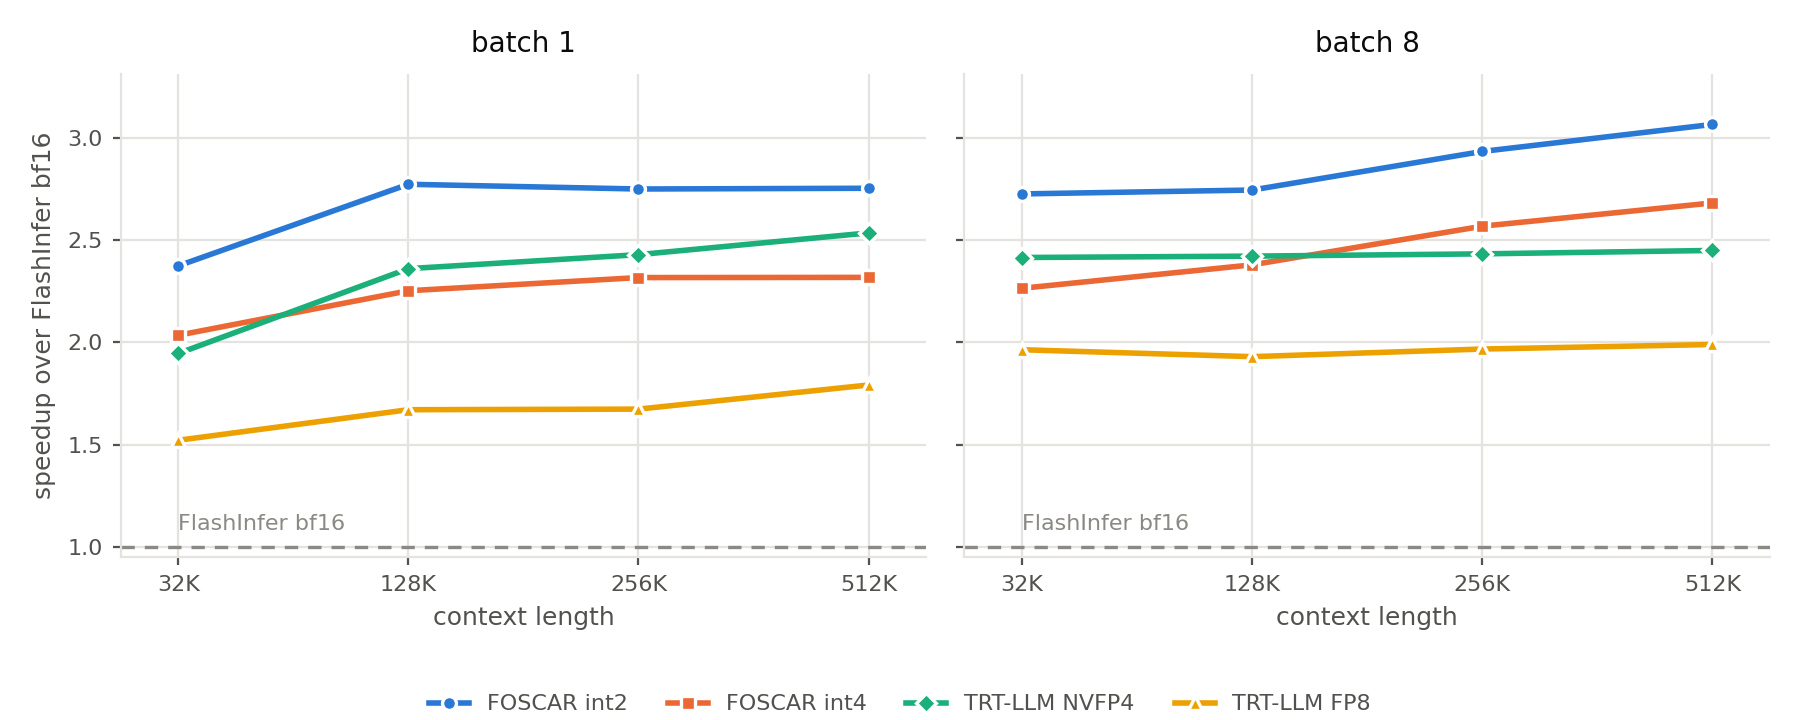
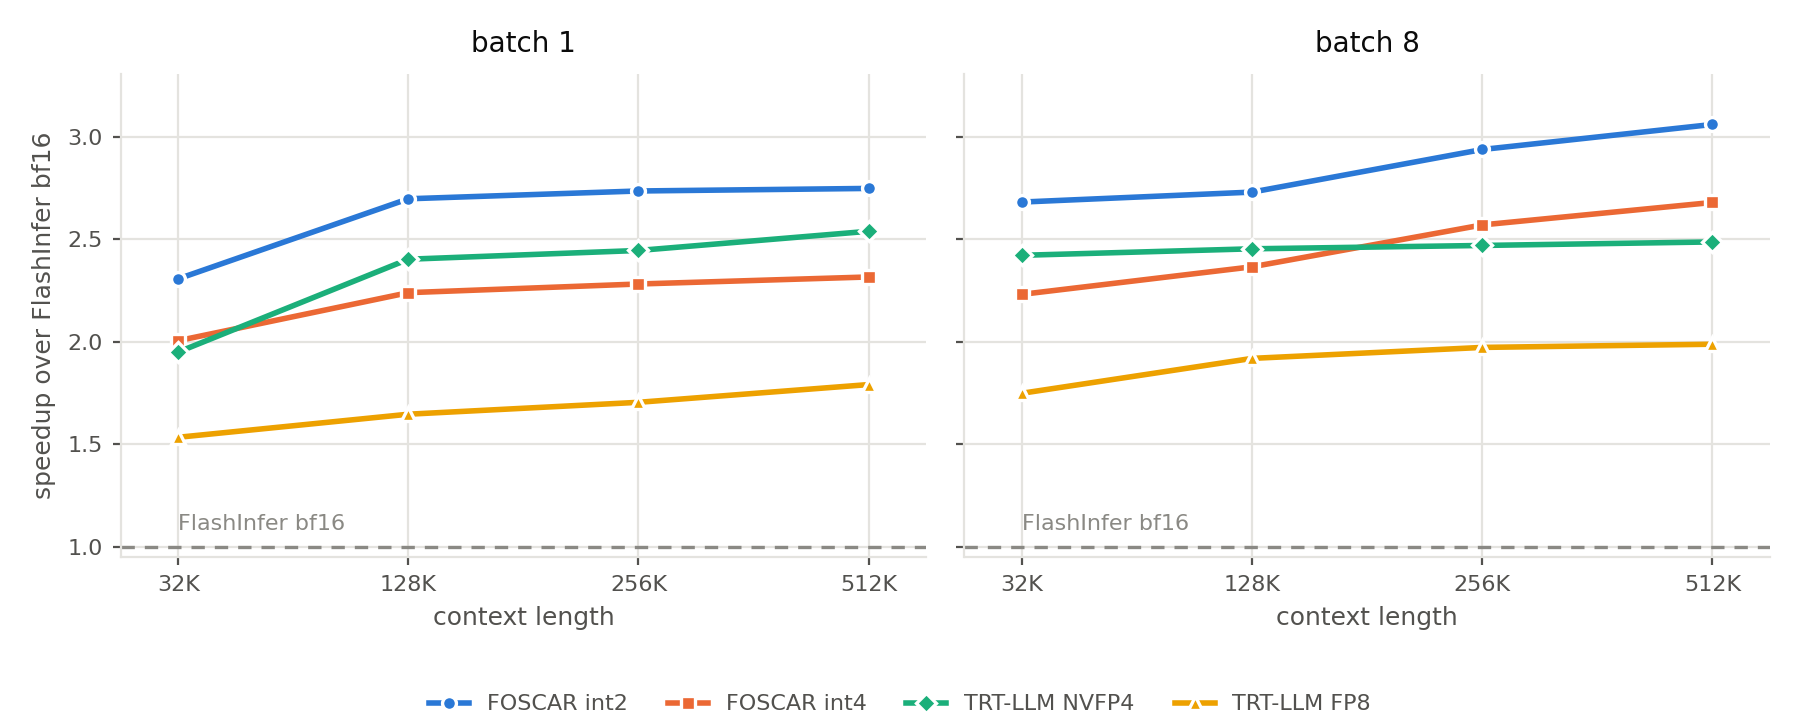
Measure against FlashInfer 0.7.3 and fix the figure's cell lookup
The baseline columns move to FlashInfer 0.7.3, which the extra now pins. Both
B200 tables are re-measured with it in one process, every column of a cell in
the same run: the FOSCAR columns come back within 1% of their previous values,
and the TensorRT-LLM FP8 decode is 12% slower at batch 8, 32K than 0.6.13 was,
which is the kind of change a version pin exists to keep out of a table.

plot_decode.py looked a cell up by GPU, kernel, batch and context without the
shape, so the Inkling figure drew the Qwen3-8B numbers; the two PNGs came out
byte-identical. The lookup now takes the rows already narrowed to one shape.

The harness measures every column in one process, as the internal one does: it
forks a worker per interpreter group, and this release has one group.

diff --git a/benchmarks/plot_decode.py b/benchmarks/plot_decode.py
@@ -41,8 +41,9 @@ REF = "#8a8984"
 rows = list(csv.DictReader((HERE / "decode_latency.csv").open()))
 
 
-def us(gpu, kernel, batch, kv):
-    hit = [r for r in rows if r["gpu"] == gpu and r["kernel"] == kernel
+def us(here, kernel, batch, kv):
+    """One cell of one figure. `here` is already narrowed to a GPU and a shape."""
+    hit = [r for r in here if r["kernel"] == kernel
            and int(r["batch"]) == batch and int(r["kv"]) == kv]
     return float(hit[0]["us"]) if hit else None
 
@@ -63,8 +64,8 @@ def render(gpu, shape, out):
         for key, label, color, marker in present:
             xs, ys = [], []
             for i, kv in enumerate(kv_lens):
-                base = us(gpu, BASE, batch, kv)
-                val = us(gpu, key, batch, kv)
+                base = us(here, BASE, batch, kv)
+                val = us(here, key, batch, kv)
                 if base and val:
                     xs.append(i)
                     ys.append(base / val)

diff --git a/README.md b/README.md
@@ -158,14 +158,14 @@ against one KV head.
 
 | Batch | Context | FOSCAR int2 | FOSCAR int4 | FlashInfer bf16 | TRT-LLM FP8 | TRT-LLM NVFP4 |
 |---:|---:|---:|---:|---:|---:|---:|
-| 1 | 32K | **15.0** | 17.5 | 35.6 | 23.4 | 18.3 |
-| 1 | 128K | **35.5** | 43.7 | 98.4 | 58.9 | 41.7 |
-| 1 | 256K | **62.1** | 73.7 | 170.7 | 102.0 | 70.3 |
-| 1 | 512K | **113.9** | 135.3 | 313.5 | 175.0 | 123.7 |
-| 8 | 32K | **61.4** | 73.9 | 167.3 | 85.2 | 69.3 |
-| 8 | 128K | **217.4** | 250.8 | 596.5 | 309.1 | 246.4 |
-| 8 | 256K | **398.6** | 455.3 | 1168.8 | 594.2 | 480.6 |
-| 8 | 512K | **756.9** | 865.2 | 2319.4 | 1166.0 | 947.2 |
+| 1 | 32K | **15.3** | 17.6 | 35.3 | 23.0 | 18.1 |
+| 1 | 128K | **36.7** | 44.2 | 99.0 | 60.1 | 41.2 |
+| 1 | 256K | **62.4** | 74.8 | 170.7 | 100.1 | 69.8 |
+| 1 | 512K | **114.3** | 135.6 | 314.1 | 175.3 | 123.7 |
+| 8 | 32K | **62.5** | 75.1 | 167.6 | 95.8 | 69.2 |
+| 8 | 128K | **218.3** | 251.9 | 596.0 | 310.5 | 242.9 |
+| 8 | 256K | **399.1** | 456.2 | 1172.5 | 594.3 | 474.7 |
+| 8 | 512K | **758.1** | 865.7 | 2319.8 | 1166.6 | 932.7 |
 
 ### B200 (SM100), Inkling
 
@@ -173,14 +173,14 @@ against one KV head.
 
 | Batch | Context | FOSCAR int2 | FOSCAR int4 | FlashInfer bf16 | TRT-LLM FP8 | TRT-LLM NVFP4 |
 |---:|---:|---:|---:|---:|---:|---:|
-| 1 | 32K | 12.7 | **12.1** | 17.6 | 15.9 | 22.8 |
-| 1 | 128K | **18.5** | 18.8 | 37.4 | 30.7 | 28.7 |
-| 1 | 256K | **25.9** | 26.8 | 49.3 | 37.3 | 32.2 |
-| 1 | 512K | **40.5** | 42.3 | 73.4 | 49.3 | 40.5 |
-| 8 | 32K | 18.1 | 19.5 | 35.0 | 22.8 | **17.9** |
-| 8 | 128K | **40.4** | 45.3 | 99.2 | 59.0 | 41.3 |
-| 8 | 256K | 71.3 | 77.9 | 171.9 | 100.4 | **70.4** |
-| 8 | 512K | 130.8 | 142.1 | 317.3 | 178.0 | **123.5** |
+| 1 | 32K | 12.7 | 12.5 | 16.8 | **11.6** | 13.6 |
+| 1 | 128K | **18.5** | 18.8 | 37.4 | 30.4 | 29.2 |
+| 1 | 256K | **25.6** | 26.6 | 49.0 | 36.7 | 32.9 |
+| 1 | 512K | **40.7** | 42.4 | 72.7 | 49.1 | 41.1 |
+| 8 | 32K | **17.7** | 18.9 | 34.8 | 22.1 | 17.9 |
+| 8 | 128K | **40.2** | 46.1 | 98.1 | 58.9 | 41.1 |
+| 8 | 256K | 71.1 | 78.4 | 171.2 | 101.3 | **70.3** |
+| 8 | 512K | 130.5 | 141.8 | 318.6 | 181.4 | **124.1** |
 
 One KV head serves eight query heads here, so the cache one GPU streams is an
 eighth of the Qwen3-8B table's at the same context length and the decode is

diff --git a/benchmarks/README.md b/benchmarks/README.md
@@ -4,7 +4,7 @@ Decode latency for this package and for the two kernels it is compared against,
 measured by one harness on one GPU in one process.
 
 ```sh
-pip install -e ".[bench]"                       # adds FlashInfer 0.6.13
+pip install -e ".[bench]"                       # adds FlashInfer 0.7.3
 python benchmarks/run_bench.py                  # every shape, every kernel
 python benchmarks/run_bench.py --shape inkling
 python benchmarks/run_bench.py --kernel ours_int2 --batch 1 --context 32768
@@ -39,7 +39,7 @@ Every column of a cell decodes the same K, V and page table. Each converts them
 to the cache format its own kernel reads, before timing starts.
 
 The three FlashInfer columns are Blackwell-only for the TensorRT-LLM kernels; on
-Hopper the harness reports them as skipped. The extra pins FlashInfer 0.6.13,
+Hopper the harness reports them as skipped. The extra pins FlashInfer 0.7.3,
 the release the published columns were measured with: a later one moves its
 decode kernels, and its numbers would not be the same comparison.
 
